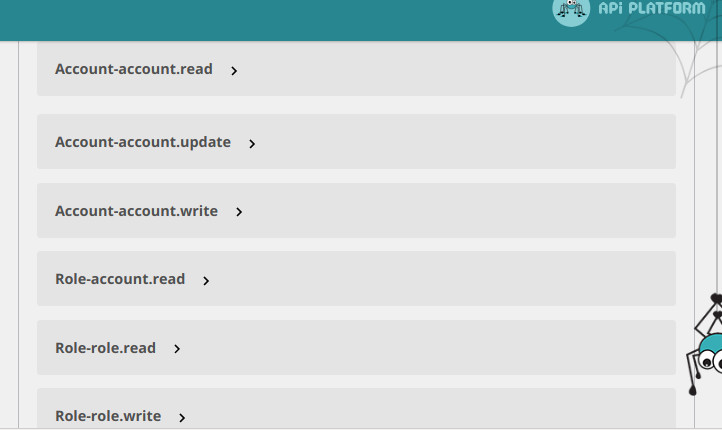
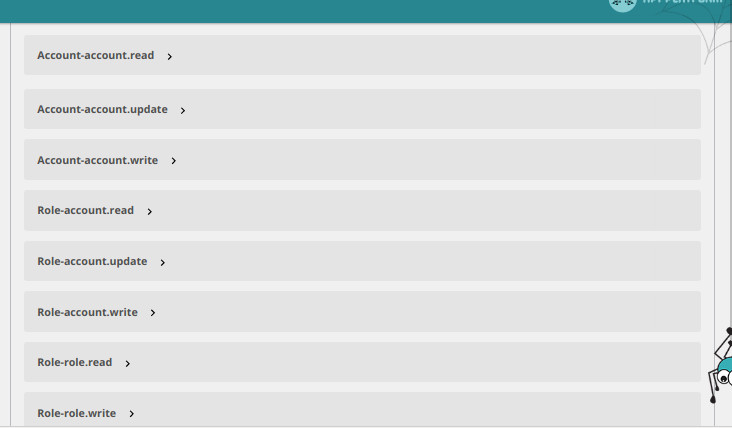
We can use this approach in denormalization either, when we want to add a nested object to a new or existing object. The only thing which has to be done is adding denormalization group  'account.write' and 'account.update' to properties of the nested object.
This configuration allows to:

– Add Role to existing Account

Content-Type: application/json

Method: PUT

{
   'id':123,
   'username':'jonsnow_1',
   'isActive':true,
   'roles':[
      {
         'id':10
      }
   ]
}

– Save a new Account with already created Role(s)

Content-Type: application/json

Method: POST

{
   'username':'jonsnow_new',
   'isActive':true,
   'password':'test',
   'roles':[
      {
         'id':10
      }
   ]
}

– Create a completely new Role object if there is no id in the request

Content-Type: application/json

Method: PUT

{
   'id':123,
   'username':'jonsnow_1',
   'isActive':true,
   'roles':[
      {
         'symbol':'ROLE_SUPER_ADMIN_EXTRA',
         'description':'Lorem ipsum'
      }
   ]
}

The last example is not a super safe one in our case but it shows how nested denormalization works.

If you provide Role id, then object is loaded from database and it is set as a relation to an actual Account object.

In case that you do not provide Role id, a new object along with provided parameters, is created and set as a relation to an actual Account object.

diff --git a/src/Entity/Role.php b/src/Entity/Role.php
@@ -46,7 +46,10 @@ class Role {
    *  "role.read",
    *  "role.write",
    *
-   *  "account.read"
+   *  "account.read",
+   *  "account.write",
+   *
+   *  "account.update"
    * })
    */
   private $symbol;
@@ -57,7 +60,10 @@ class Role {
    *  "role.read",
    *  "role.write",
    *
-   *   "account.read",
+   *  "account.read",
+   *  "account.write",
+   *
+   *  "account.update"
    * })
    */
   private $description;

diff --git a/src/Entity/Account.php b/src/Entity/Account.php
@@ -60,7 +60,10 @@ class Account {
    * @ORM\ManyToMany(targetEntity="App\Entity\Role", mappedBy="accounts")
    * @ApiSubresource(maxDepth=1)
    * @Groups({
-   *  "account.read"
+   *  "account.read",
+   *  "account.write",
+   *
+   *  "account.update"
    * })
    */
   private $roles;
